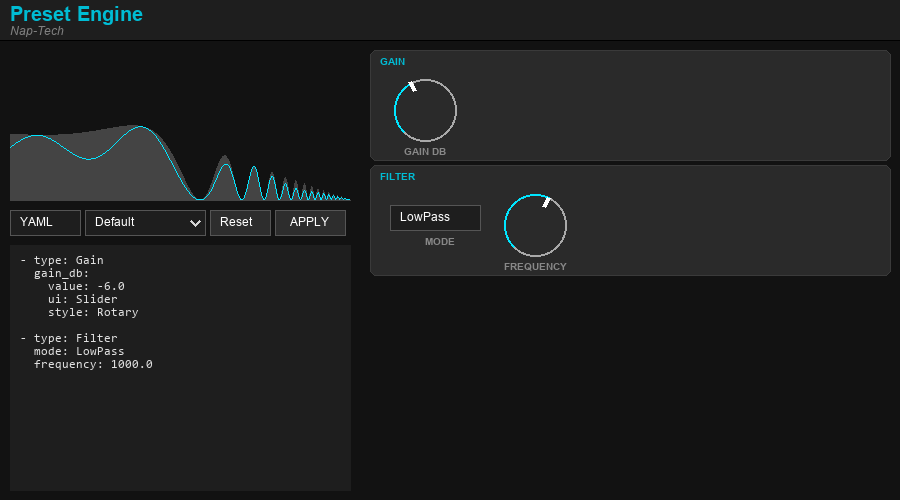
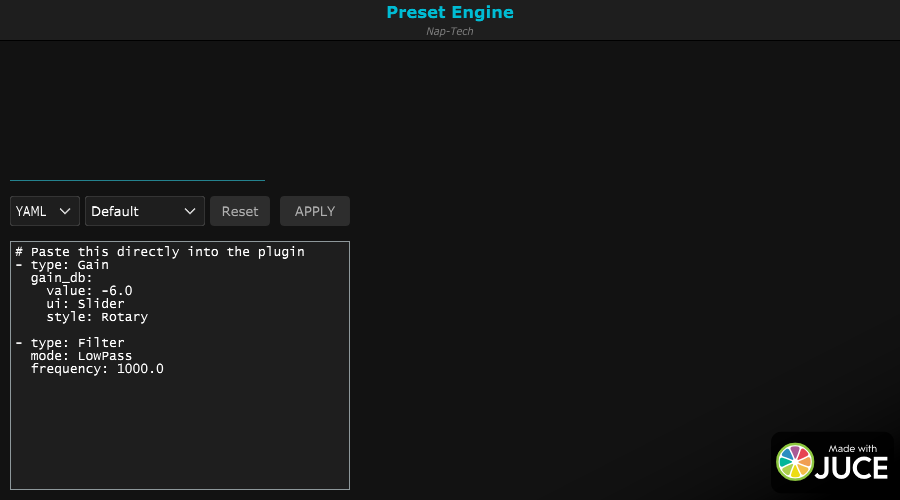
feat: Implement dynamic UI parameter components and add a screenshot test application.

diff --git a/Tests/generate_screenshot.py b/Tests/generate_screenshot.py
@@ -185,7 +185,7 @@ def generate_screenshot():
     
     # Preset
     draw.rectangle([curr_x, controls_y, curr_x + 120, controls_y + 25], fill="#1e1e1e", outline="#555")
-    draw.text((curr_x + 10, controls_y+5), "Default", fill="white", font=font_std)
+    draw.text((curr_x + 10, controls_y+5), "Complex Group", fill="white", font=font_std)
     # Chevron
     draw.line([curr_x + 105, controls_y + 10, curr_x + 110, controls_y + 15, curr_x + 115, controls_y + 10], fill="lightgrey", width=2)
     curr_x += 125
@@ -203,43 +203,50 @@ def generate_screenshot():
     editor_y = controls_y + 35
     editor_h = HEIGHT - editor_y - 10
     draw.rectangle([10, editor_y, 350, editor_y + editor_h], fill=COLOR_EDITOR_BG)
-    code_text = """- type: Gain
-  gain_db:
-    value: -6.0
-    ui: Slider
-    style: Rotary
-
-- type: Filter
-  mode: LowPass
-  frequency: 1000.0"""
+    code_text = """# Parallel Processing with a Loop
+- type: Group
+  mode: Parallel
+  children:
+    - type: Filter
+      mode: LowPass
+      frequency: 400.0
+    - type: Group
+      mode: Series
+      repeat: 3
+      children:
+        - type: Distortion
+          drive: 2.0"""
     draw.text((20, editor_y + 10), code_text, fill=COLOR_TEXT_MAIN, font=font_code)
 
     # --- Right Column (FlexBox Layout Simulation) ---
     right_x = 370
     right_w = WIDTH - right_x - 10
     
-    # We will draw the "Default" preset components
-    # Gain Block
+    # Visualizing the nested structure
     y = 50
-    draw.rounded_rectangle([right_x, y, right_x + right_w, y + 110], radius=6, outline="#3a3a3a", fill="#2a2a2a")
-    draw.text((right_x + 10, y + 5), "GAIN", fill=COLOR_ACCENT, font=font_label)
     
-    # Gain Knob
-    draw_rotary(draw, right_x + 20, y + 25, 70, 0.4, "GAIN DB")
-
-    # Filter Block
-    y += 115
-    draw.rounded_rectangle([right_x, y, right_x + right_w, y + 110], radius=6, outline="#3a3a3a", fill="#2a2a2a")
-    draw.text((right_x + 10, y + 5), "FILTER", fill=COLOR_ACCENT, font=font_label)
+    # Root Group
+    draw.rounded_rectangle([right_x, y, right_x + right_w, y + 400], radius=6, outline="#3a3a3a", fill="#222222")
+    draw.text((right_x + 10, y + 5), "GROUP", fill=COLOR_ACCENT, font=font_label)
+    draw.text((right_x + 60, y + 5), "(PARALLEL)", fill=COLOR_TEXT_DIM, font=font_label)
     
-    # Filter Controls
-    # Mode (ComboBox)
-    draw.rectangle([right_x + 20, y + 40, right_x + 110, y + 65], fill="#1e1e1e", outline="#555")
-    draw.text((right_x + 30, y + 45), "LowPass", fill="white", font=font_std)
-    draw.text((right_x + 20 + 35, y + 70), "MODE", fill=COLOR_TEXT_DIM, font=font_label)
-
-    # Freq Knob
-    draw_rotary(draw, right_x + 130, y + 25, 70, 0.6, "FREQUENCY")
+    # Child 1: Filter
+    y_child = y + 30
+    draw.rounded_rectangle([right_x + 20, y_child, right_x + right_w - 20, y_child + 100], radius=6, outline="#3a3a3a", fill="#2a2a2a")
+    draw.text((right_x + 30, y_child + 5), "FILTER", fill=COLOR_ACCENT, font=font_label)
+    draw_rotary(draw, right_x + 40, y_child + 25, 60, 0.3, "FREQ")
+    
+    # Child 2: Group (Series)
+    y_child += 110
+    draw.rounded_rectangle([right_x + 20, y_child, right_x + right_w - 20, y_child + 150], radius=6, outline="#3a3a3a", fill="#252525")
+    draw.text((right_x + 30, y_child + 5), "GROUP", fill=COLOR_ACCENT, font=font_label)
+    draw.text((right_x + 80, y_child + 5), "(SERIES, x3)", fill=COLOR_TEXT_DIM, font=font_label)
+    
+    # Grandchild: Distortion
+    y_gchild = y_child + 30
+    draw.rounded_rectangle([right_x + 40, y_gchild, right_x + right_w - 40, y_gchild + 100], radius=6, outline="#3a3a3a", fill="#2a2a2a")
+    draw.text((right_x + 50, y_gchild + 5), "DISTORTION", fill=COLOR_ACCENT, font=font_label)
+    draw_rotary(draw, right_x + 60, y_gchild + 25, 60, 0.2, "DRIVE")
 
     img.save("screenshot.png")
     print("Screenshot generated: screenshot.png")

diff --git a/Tests/ScreenshotTest.cpp b/Tests/ScreenshotTest.cpp
@@ -1,0 +1,94 @@
+#include <juce_gui_basics/juce_gui_basics.h>
+#include <juce_audio_processors/juce_audio_processors.h>
+#include "../Source/PluginProcessor.h"
+#include "../Source/PluginEditor.h"
+
+// cmake --build build --config Release --target ScreenshotTest
+
+class ScreenshotTestApp : public juce::JUCEApplication
+{
+public:
+    ScreenshotTestApp() {}
+    const juce::String getApplicationName() override { return "ScreenshotTest"; }
+    const juce::String getApplicationVersion() override { return "1.0.0"; }
+    bool moreThanOneInstanceAllowed() override { return true; }
+
+    void initialise(const juce::String&) override
+    {
+        // Create the plugin
+        auto plugin = std::make_unique<PresetEngineAudioProcessor>();
+        
+        // Create the editor
+        auto* editor = plugin->createEditor();
+        
+        if (editor == nullptr)
+        {
+            std::cerr << "Failed to create editor." << std::endl;
+            quit();
+            return;
+        }
+
+        // Set bounds. The editor usually sets its own size in constructor, but we should ensure it has a size.
+        if (editor->getWidth() == 0 || editor->getHeight() == 0)
+        {
+            editor->setSize(900, 500); // Default size from PluginEditor.cpp
+        }
+        
+        // Force a repaint/layout
+        editor->setVisible(true);
+        
+        // We might need to let the message loop run for a moment if there are async updates?
+        // But for a simple snapshot, it might be immediate.
+        
+        auto image = editor->createComponentSnapshot(editor->getLocalBounds());
+        
+        // Create test directory if it doesn't exist
+        juce::File cwd = juce::File::getCurrentWorkingDirectory();
+        // We want to save it in the root or a known location. 
+        // The reference saved to TestOutput. Let's do the same.
+        juce::File testDir = cwd.getChildFile("TestOutput");
+        
+        if (!testDir.exists())
+        {
+            auto result = testDir.createDirectory();
+            if (result.failed())
+            {
+                 std::cerr << "Failed to create test directory: " << result.getErrorMessage() << std::endl;
+                 delete editor;
+                 quit();
+                 return;
+            }
+        }
+            
+        juce::File screenshotFile = testDir.getChildFile("screenshot.png");
+        
+        if (screenshotFile.exists())
+            screenshotFile.deleteFile();
+        
+        juce::PNGImageFormat png;
+        juce::FileOutputStream stream(screenshotFile);
+        
+        if (stream.openedOk())
+        {
+            if (png.writeImageToStream(image, stream))
+            {
+                std::cout << "Screenshot saved to " << screenshotFile.getFullPathName() << std::endl;
+            }
+            else
+            {
+                std::cerr << "Failed to write image to stream." << std::endl;
+            }
+        }
+        else
+        {
+            std::cerr << "Failed to open stream for " << screenshotFile.getFullPathName() << std::endl;
+        }
+
+        delete editor;
+        quit();
+    }
+
+    void shutdown() override {}
+};
+
+START_JUCE_APPLICATION(ScreenshotTestApp)

diff --git a/Source/PluginEditor.cpp b/Source/PluginEditor.cpp
@@ -368,6 +368,7 @@ PresetEngineAudioProcessorEditor::PresetEngineAudioProcessorEditor (PresetEngine
     presetBox.addItem("Ethereal Space", 4);
     presetBox.addItem("Mastering Chain", 5);
     presetBox.addItem("Lo-Fi", 6);
+    presetBox.addItem("Complex Group", 7);
     presetBox.setSelectedId(1);
     presetBox.onChange = [this] {
         codeEditor.setText(getPresetSource(presetBox.getSelectedId(), languageBox.getSelectedId()));
@@ -465,6 +466,20 @@ juce::String PresetEngineAudioProcessorEditor::getPresetSource(int presetId, int
             "- type: Distortion\n  drive: 12.0\n"
             "- type: Filter\n  mode: BandPass\n  frequency: 1000.0\n  q: 0.8\n"
             "- type: Delay\n  time: 0.25\n  mix: 0.25";
+        if (presetId == 7) return
+            "# Parallel Processing with a Loop\n"
+            "- type: Group\n"
+            "  mode: Parallel\n"
+            "  children:\n"
+            "    - type: Filter\n"
+            "      mode: LowPass\n"
+            "      frequency: 400.0\n"
+            "    - type: Group\n"
+            "      mode: Series\n"
+            "      repeat: 3\n"
+            "      children:\n"
+            "        - type: Distortion\n"
+            "          drive: 2.0";
             
         // Default
         return "# Paste this directly into the plugin\n"
@@ -503,6 +518,23 @@ juce::String PresetEngineAudioProcessorEditor::getPresetSource(int presetId, int
             "chain.add(Distortion(drive=12.0))\n"
             "chain.add(Filter(mode='BandPass', frequency=1000.0, q=0.8))\n"
             "chain.add(Delay(time=0.25, mix=0.25))\n" + footer;
+        if (presetId == 7) return 
+            "# Nested groups are not yet supported in the simple Python transpiler.\n"
+            "# Please use YAML for complex structures.\n"
+            "print('''\n"
+            "- type: Group\n"
+            "  mode: Parallel\n"
+            "  children:\n"
+            "    - type: Filter\n"
+            "      mode: LowPass\n"
+            "      frequency: 400.0\n"
+            "    - type: Group\n"
+            "      mode: Series\n"
+            "      repeat: 3\n"
+            "      children:\n"
+            "        - type: Distortion\n"
+            "          drive: 2.0\n"
+            "''')";
 
         return "# SDK USAGE - Run this Python script to GENERATE a preset file\n"
                "from preset_engine import Chain, Gain\n"
